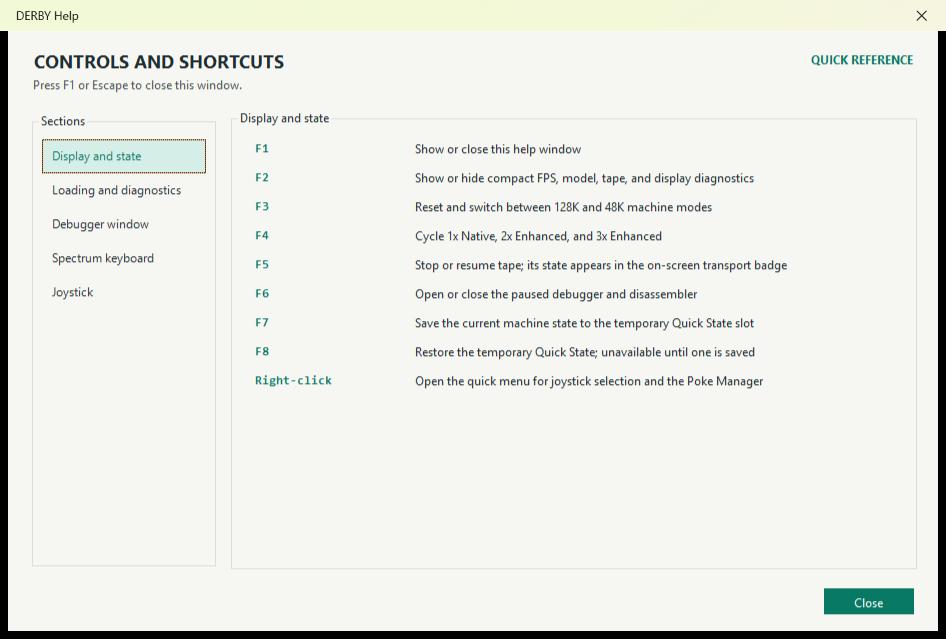
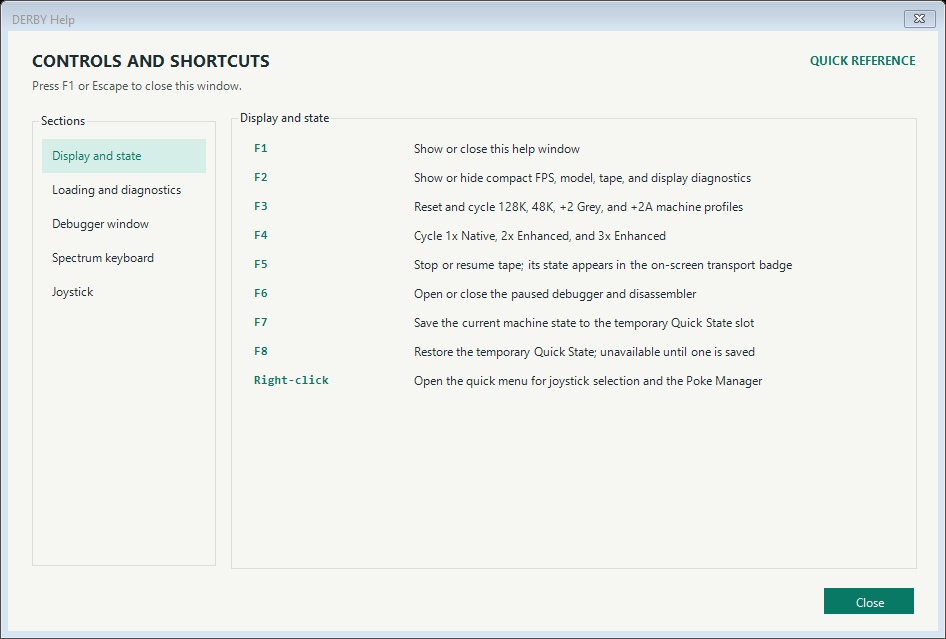
Simplify machine profile selection

diff --git a/Forms/MainForm.Roms.cs b/Forms/MainForm.Roms.cs
@@ -6,7 +6,6 @@ namespace Derby
         private ToolStripMenuItem bundled48RomMenuItem = null!;
         private ToolStripMenuItem bundledPlus2RomMenuItem = null!;
         private ToolStripMenuItem bundledPlus2ARomMenuItem = null!;
-        private ToolStripMenuItem customRomMenuItem = null!;
 
         private void InitializeMachineMenu()
         {
@@ -27,26 +26,10 @@ namespace Derby
                 null,
                 (_, _) => ApplyRomSet(bundledPlus2ARomSet));
 
-            customRomMenuItem = new ToolStripMenuItem("Custom Machine / ROM");
-            customRomMenuItem.DropDownItems.Add(
-                "Load 48K / Spectrum+ ROM...",
-                null,
-                (_, _) => SelectCustom48kRom());
-            customRomMenuItem.DropDownItems.Add(
-                "Load 128K / +2 ROM pair...",
-                null,
-                (_, _) => SelectCustom128kRomPair());
-            customRomMenuItem.DropDownItems.Add(
-                "Load +2A / +3 ROM set...",
-                null,
-                (_, _) => SelectCustomPlus2ARomSet());
-
             machineMenuItem.DropDownItems.Add(bundled128RomMenuItem);
             machineMenuItem.DropDownItems.Add(bundled48RomMenuItem);
             machineMenuItem.DropDownItems.Add(bundledPlus2RomMenuItem);
             machineMenuItem.DropDownItems.Add(bundledPlus2ARomMenuItem);
-            machineMenuItem.DropDownItems.Add(new ToolStripSeparator());
-            machineMenuItem.DropDownItems.Add(customRomMenuItem);
             machineMenuItem.DropDownOpening += (_, _) => UpdateMachineMenu();
             UpdateMachineMenu();
         }
@@ -60,11 +43,6 @@ namespace Derby
             bundled48RomMenuItem.Checked = SameRomSet(selectedRomSet, bundled48RomSet);
             bundledPlus2RomMenuItem.Checked = SameRomSet(selectedRomSet, bundledPlus2RomSet);
             bundledPlus2ARomMenuItem.Checked = SameRomSet(selectedRomSet, bundledPlus2ARomSet);
-            customRomMenuItem.Checked =
-                !bundled128RomMenuItem.Checked &&
-                !bundled48RomMenuItem.Checked &&
-                !bundledPlus2RomMenuItem.Checked &&
-                !bundledPlus2ARomMenuItem.Checked;
         }
 
         private static bool SameRomSet(SpectrumRomSet left, SpectrumRomSet right) =>
@@ -74,86 +52,11 @@ namespace Derby
                 right.RomPaths.Select(Path.GetFullPath),
                 StringComparer.OrdinalIgnoreCase);
 
-        private void SelectCustom48kRom()
-        {
-            using var dialog = CreateRomDialog("Select a 48K or Spectrum+ 16KB ROM");
-            if (dialog.ShowDialog(this) != DialogResult.OK)
-                return;
-
-            TryApplyRomSet(() => SpectrumRomSet.Create48K(
-                $"Custom 48K: {Path.GetFileNameWithoutExtension(dialog.FileName)}",
-                dialog.FileName));
-        }
-
-        private void SelectCustom128kRomPair()
-        {
-            using var rom0Dialog = CreateRomDialog("Select ROM 0 (128K editor/menu ROM)");
-            if (rom0Dialog.ShowDialog(this) != DialogResult.OK)
-                return;
-
-            using var rom1Dialog = CreateRomDialog("Select ROM 1 (48K BASIC ROM)");
-            if (rom1Dialog.ShowDialog(this) != DialogResult.OK)
-                return;
-
-            TryApplyRomSet(() => SpectrumRomSet.Create128K(
-                $"Custom 128K/+2: {Path.GetFileNameWithoutExtension(rom0Dialog.FileName)} + {Path.GetFileNameWithoutExtension(rom1Dialog.FileName)}",
-                rom0Dialog.FileName,
-                rom1Dialog.FileName));
-        }
-
-        private void SelectCustomPlus2ARomSet()
-        {
-            var paths = new string[4];
-            for (int bank = 0; bank < paths.Length; bank++)
-            {
-                using var dialog = CreateRomDialog($"Select ROM {bank} (+2A / +3 four-ROM set)");
-                if (dialog.ShowDialog(this) != DialogResult.OK)
-                    return;
-                paths[bank] = dialog.FileName;
-            }
-
-            TryApplyRomSet(() => SpectrumRomSet.CreatePlus2A(
-                $"Custom +2A: {Path.GetFileNameWithoutExtension(paths[0])} set",
-                paths[0],
-                paths[1],
-                paths[2],
-                paths[3]));
-        }
-
-        private static OpenFileDialog CreateRomDialog(string title) => new()
-        {
-            Title = title,
-            Filter = "Spectrum ROM images (*.rom;*.bin)|*.rom;*.bin|All files (*.*)|*.*",
-            CheckFileExists = true,
-            Multiselect = false
-        };
-
-        private void TryApplyRomSet(Func<SpectrumRomSet> create)
-        {
-            try
-            {
-                ApplyRomSet(create());
-            }
-            catch (Exception ex) when (ex is IOException or UnauthorizedAccessException or ArgumentException)
-            {
-                MessageBox.Show(
-                    this,
-                    ex.Message,
-                    "Unable to load machine profile",
-                    MessageBoxButtons.OK,
-                    MessageBoxIcon.Warning);
-            }
-        }
-
         private void ApplyRomSet(SpectrumRomSet romSet)
         {
             ExecuteWithEmulationPaused(() =>
             {
                 selectedRomSet = romSet;
-                if (romSet.Model == SpectrumMachineModel.Spectrum48K)
-                    selected48RomSet = romSet;
-                else
-                    selected128RomSet = romSet;
                 selectedMachineModel = romSet.Model;
                 loadedMediaDisplayName = null;
                 loadedMediaIdentity = null;

diff --git a/Derby.Windows.Tests/MainFormMenuTests.cs b/Derby.Windows.Tests/MainFormMenuTests.cs
@@ -53,7 +53,7 @@ namespace Derby.Tests
                         .OfType<ToolStripMenuItem>()
                         .Single(item => item.Text == "F3 - Machine");
                     Assert.Equal(
-                        ["ZX Spectrum 128K", "ZX Spectrum 48K", "ZX Spectrum +2 (Grey)", "ZX Spectrum +2A", "---", "Custom Machine / ROM"],
+                        ["ZX Spectrum 128K", "ZX Spectrum 48K", "ZX Spectrum +2 (Grey)", "ZX Spectrum +2A"],
                         machineMenu.DropDownItems.Cast<ToolStripItem>()
                             .Select(item => item is ToolStripSeparator ? "---" : item.Text ?? string.Empty));
                     Assert.True(machineMenu.DropDownItems.OfType<ToolStripMenuItem>()
@@ -73,32 +73,32 @@ namespace Derby.Tests
         }
 
         [Fact]
-        public void F3MachineSwitch_RestoresLastSelectedRomProfileForEachHardwareFamily()
+        public void F3MachineSwitch_CyclesEveryBundledProfileInMenuOrder()
         {
-            string folder = Path.Combine(Path.GetTempPath(), Guid.NewGuid().ToString("N"));
-            Directory.CreateDirectory(folder);
-            string rom0 = Path.Combine(folder, "custom-0.rom");
-            string rom1 = Path.Combine(folder, "custom-1.rom");
-            File.WriteAllBytes(rom0, Enumerable.Repeat((byte)0xF3, 16384).ToArray());
-            File.WriteAllBytes(rom1, Enumerable.Repeat((byte)0xC3, 16384).ToArray());
             Exception? failure = null;
             var thread = new Thread(() =>
             {
                 try
                 {
                     using var form = new MainForm();
-                    SpectrumRomSet custom128 = SpectrumRomSet.Create128K("Custom 128K", rom0, rom1);
-                    typeof(MainForm).GetMethod("ApplyRomSet", BindingFlags.Instance | BindingFlags.NonPublic)!
-                        .Invoke(form, [custom128]);
-                    typeof(MainForm).GetMethod("ResetToMachineModel", BindingFlags.Instance | BindingFlags.NonPublic)!
-                        .Invoke(form, [SpectrumMachineModel.Spectrum48K]);
-                    typeof(MainForm).GetMethod("ResetToMachineModel", BindingFlags.Instance | BindingFlags.NonPublic)!
-                        .Invoke(form, [SpectrumMachineModel.Spectrum128K]);
+                    Type type = typeof(MainForm);
+                    MethodInfo cycle = type.GetMethod("CycleMachineProfile", BindingFlags.Instance | BindingFlags.NonPublic)!;
+                    string[] expected =
+                    [
+                        "Sinclair ZX Spectrum 48K (bundled)",
+                        "Sinclair ZX Spectrum +2 Grey (bundled)",
+                        "Sinclair ZX Spectrum +2A (bundled)",
+                        "Sinclair ZX Spectrum 128K (bundled)"
+                    ];
 
-                    SpectrumRomSet selected = (SpectrumRomSet)typeof(MainForm)
-                        .GetField("selectedRomSet", BindingFlags.Instance | BindingFlags.NonPublic)!
-                        .GetValue(form)!;
-                    Assert.Same(custom128, selected);
+                    foreach (string name in expected)
+                    {
+                        cycle.Invoke(form, null);
+                        SpectrumRomSet selected = (SpectrumRomSet)type
+                            .GetField("selectedRomSet", BindingFlags.Instance | BindingFlags.NonPublic)!
+                            .GetValue(form)!;
+                        Assert.Equal(name, selected.Name);
+                    }
                 }
                 catch (Exception exception)
                 {
@@ -108,7 +108,6 @@ namespace Derby.Tests
             thread.SetApartmentState(ApartmentState.STA);
             thread.Start();
             Assert.True(thread.Join(TimeSpan.FromSeconds(15)), "The machine-profile switching test timed out.");
-            Directory.Delete(folder, true);
             if (failure != null)
                 throw new Xunit.Sdk.XunitException(failure.ToString());
         }

diff --git a/Forms/MainForm.cs b/Forms/MainForm.cs
@@ -76,8 +76,6 @@ namespace Derby
         private SpectrumRomSet bundled48RomSet = null!;
         private SpectrumRomSet bundledPlus2RomSet = null!;
         private SpectrumRomSet bundledPlus2ARomSet = null!;
-        private SpectrumRomSet selected128RomSet = null!;
-        private SpectrumRomSet selected48RomSet = null!;
         private SpectrumRomSet selectedRomSet = null!;
         private Spectrum128Machine machine;
         private readonly object machineLock = new();
@@ -154,9 +152,7 @@ namespace Derby
             bundled48RomSet = SpectrumRomSet.Bundled48K(romFolder);
             bundledPlus2RomSet = SpectrumRomSet.BundledPlus2(romFolder);
             bundledPlus2ARomSet = SpectrumRomSet.BundledPlus2A(romFolder);
-            selected128RomSet = bundled128RomSet;
-            selected48RomSet = bundled48RomSet;
-            selectedRomSet = selected128RomSet;
+            selectedRomSet = bundled128RomSet;
             machine = CreateConfiguredMachine();
             joystickSettings = joystickSettingsStore.Load();
             joystickInputController = new HostJoystickInputController(joystickSource);
@@ -380,10 +376,6 @@ namespace Derby
                 if (!SameRomSet(selectedRomSet, savedRomSet))
                 {
                     selectedRomSet = savedRomSet;
-                    if (savedRomSet.Model == SpectrumMachineModel.Spectrum48K)
-                        selected48RomSet = savedRomSet;
-                    else
-                        selected128RomSet = savedRomSet;
                     lock (machineLock)
                         machine = CreateConfiguredMachine();
                 }
@@ -672,39 +664,17 @@ namespace Derby
             return configuredMachine;
         }
 
-        private void ToggleMachineModel()
+        private void CycleMachineProfile()
         {
-            SpectrumMachineModel targetModel = selectedMachineModel == SpectrumMachineModel.Spectrum128K
-                ? SpectrumMachineModel.Spectrum48K
-                : SpectrumMachineModel.Spectrum128K;
-            ResetToMachineModel(targetModel);
-        }
-
-        private void ResetToMachineModel(SpectrumMachineModel model)
-        {
-            ExecuteWithEmulationPaused(() =>
-            {
-                selectedRomSet = model == SpectrumMachineModel.Spectrum48K
-                    ? selected48RomSet
-                    : selected128RomSet;
-                selectedMachineModel = model;
-                loadedMediaDisplayName = null;
-                loadedMediaIdentity = null;
-                pokeApplications.Clear();
-                ClearHostAndSpectrumInputState();
-                lock (machineLock)
-                {
-                    machine = CreateConfiguredMachine();
-                    machine.ClearDebugHistory();
-                }
-                ResetFrameScheduler();
-                RecreateAudioPipeline();
-            });
-
-            UpdateMachineModelMenuItems();
-            SuppressSpectrumHostInputForMilliseconds(PostLoadInputSuppressionMilliseconds);
-            PresentCurrentMachineFrame(frameClock.ElapsedTicks + PresentationIntervalTicks);
-            screenBox.Focus();
+            SpectrumRomSet[] profiles =
+            [
+                bundled128RomSet,
+                bundled48RomSet,
+                bundledPlus2RomSet,
+                bundledPlus2ARomSet
+            ];
+            int current = Array.FindIndex(profiles, profile => SameRomSet(selectedRomSet, profile));
+            ApplyRomSet(profiles[(current + 1) % profiles.Length]);
         }
 
         private void FrameTimer_Tick(object? sender, EventArgs e)

diff --git a/Forms/EmulatorHelpForm.cs b/Forms/EmulatorHelpForm.cs
@@ -12,7 +12,7 @@ namespace Derby
             [
                 ("F1", "Show or close this help window"),
                 ("F2", "Show or hide compact FPS, model, tape, and display diagnostics"),
-                ("F3", "Reset and switch between the selected 48K and 128K-family machine profiles"),
+                ("F3", "Reset and cycle 128K, 48K, +2 Grey, and +2A machine profiles"),
                 ("F4", "Cycle 1x Native, 2x Enhanced, and 3x Enhanced"),
                 ("F5", "Stop or resume tape; its state appears in the on-screen transport badge"),
                 ("F6", "Open or close the paused debugger and disassembler"),

diff --git a/Forms/MainForm.Input.cs b/Forms/MainForm.Input.cs
@@ -53,7 +53,7 @@ namespace Derby
 
             if (IsPlainShortcut(e, Keys.F3))
             {
-                ToggleMachineModel();
+                CycleMachineProfile();
                 e.Handled = true;
                 e.SuppressKeyPress = true;
                 return;

diff --git a/README.md b/README.md
@@ -229,14 +229,12 @@ Expected ROMs:
 - `plus3-3.rom`
 
 The right-click `F3 - Machine` submenu presents hardware and firmware together:
-the original 48K, original 128K, grey +2, and +2A are complete selectable
-machine profiles. `F3` switches between the selected 48K profile and the last
-selected 128K-family profile. Custom 16KB 48K/Spectrum+ images, ordered custom
-128K/grey +2 pairs, and ordered four-ROM +2A/+3 sets are available under
-`Custom Machine / ROM`. Custom images are validated before reset. Unknown
-layouts boot without address-based tape acceleration. The +2A profile provides
-four-ROM and special all-RAM paging; a full +3 profile remains deferred until
-the uPD765-compatible FDC and drive/media model exist.
+the original 128K, original 48K, grey +2, and +2A are complete selectable
+machine profiles. Pressing `F3` resets and cycles through those four profiles in
+that order; the submenu selects one directly. DERBY does not expose custom ROM
+loading. The +2A profile provides four-ROM and special all-RAM paging; a full
++3 profile remains deferred until the uPD765-compatible FDC and drive/media
+model exist.
 
 The bundled ROM images retain their Sinclair/Amstrad copyright. Amstrad have
 kindly given permission for redistribution for emulator use but retain that
@@ -251,7 +249,7 @@ that do not consume a function key.
 | --- | --- |
 | `F1` | Open the control reference; emulation pauses while it is open |
 | `F2` | Toggle compact mint top-right FPS, model, tape, and display diagnostics |
-| `F3` | Reset and switch between the selected 48K and 128K-family machine profiles |
+| `F3` | Reset and cycle 128K, 48K, grey +2, and +2A machine profiles |
 | `F4` | Cycle fixed display size |
 | `F5` | Stop or resume the mounted tape without ejecting it |
 | `F6` | Open the debugger and disassembler, paused on an immutable machine capture |
@@ -606,8 +604,8 @@ compatibility; completed milestones remain regression baselines.
 
 ### Milestone 26 - Machine Profiles And Later Spectrum Models In Progress
 - Added an explicit ROM-set boundary rather than treating ROM replacement as a machine-model change
-- Unified hardware and firmware selection under `F3 - Machine`, with predictable switching between the remembered 48K and 128K-family profiles
-- Added verified original 48K, original 128K, grey +2, and +2A production ROM profiles plus validated custom 16KB, two-ROM, and four-ROM selection
+- Unified hardware and firmware selection under `F3 - Machine`; plain `F3` cycles the four bundled profiles in menu order while the submenu selects one directly
+- Added verified original 48K, original 128K, grey +2, and +2A production ROM profiles, with no unsupported custom-ROM loading exposed by the frontend
 - Keeps capability-gated tape acceleration disabled for unknown ROM internals while allowing them to run through exact ROM and EAR behavior
 - Treats the Spectrum+ as 48K hardware and the original grey +2 as 128K hardware, so compatible ROMs reuse the established timing, paging, AY, and ULA paths
 - Added the +2A four-ROM map, normal ROM selection, every documented `1FFD` all-RAM configuration, revised `7FFD`/`1FFD` partial decoding, shared paging lock, physical-bank contention, machine-profile-aware Quick State restoration, diagnostics, and debugger capture

diff --git a/docs/USER_GUIDE.md b/docs/USER_GUIDE.md
@@ -61,17 +61,12 @@ Right-click the display and open **F3 - Machine** to choose:
 - **ZX Spectrum 48K:** original 48K hardware and 1982 ROM.
 - **ZX Spectrum +2 (Grey):** original 128K-family hardware and grey +2 ROM pair.
 - **ZX Spectrum +2A:** the four-ROM +2A profile with normal and special all-RAM paging.
-- **Custom Machine / ROM:** a custom 16KB 48K/Spectrum+ ROM, ordered custom 128K/+2 pair, or ordered four-ROM +2A/+3 set.
 
-`F3` switches between the selected 48K profile and the last selected
-128K-family profile, so selecting +2 and switching temporarily to 48K returns
-to +2 on the next press. Changing profile resets the machine and clears the
-loaded media. Files are validated as exact 16KB images before reset. A custom ROM can boot normally,
-but ROM-address-dependent tape acceleration is disabled when its internal
-layout is not recognized; loading then stays with real ROM execution and tape
-pulses. A four-ROM custom set uses the +2A paging profile. +3 disk operation is
-not yet available because it additionally requires a disk controller, drive,
-and media model.
+Pressing `F3` resets and cycles through 128K, 48K, +2 Grey, and +2A in menu
+order. The submenu selects any profile directly. Changing profile clears the
+loaded media. Custom ROM loading is not exposed. +3 disk operation is not yet
+available because it additionally requires a disk controller, drive, and media
+model.
 
 ## First Use
 
@@ -96,7 +91,7 @@ Press `F1` to open the quick-reference window. Emulation pauses while it is open
 | --- | --- |
 | `F1` | Open or close Help; emulation pauses while Help is open |
 | `F2` | Show or hide the status overlay |
-| `F3` | Reset and switch between the selected 48K and 128K-family machine profiles |
+| `F3` | Reset and cycle 128K, 48K, +2 Grey, and +2A machine profiles |
 | `F4` | Cycle 1x Native, 2x Enhanced, and 3x Enhanced display sizes |
 | `F5` | Stop or resume the mounted tape |
 | `F6` | Open or close the paused debugger and disassembler |
